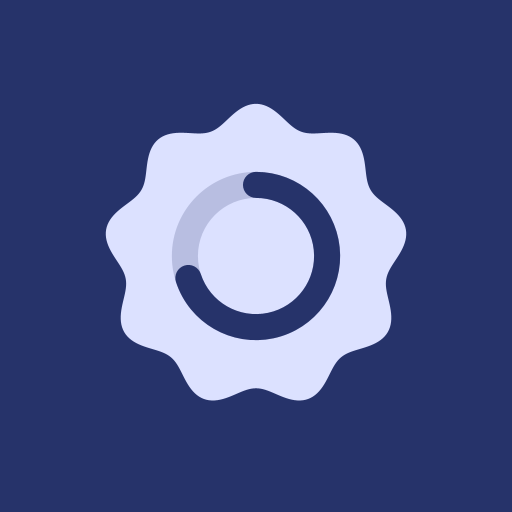
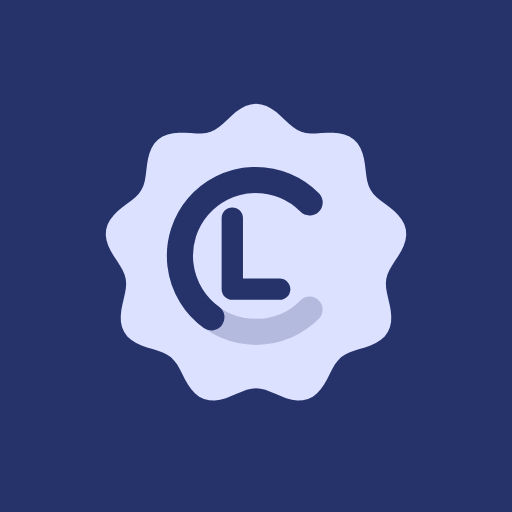
Prepare the first release
Fix edge cases found in review:
- Sign-in kept a valid cookie marked as rejected after a network error;
  it is now checked again.
- An expired session offers "Sign in again" in the app, and a widget
  asking to sign in opens the app instead of refreshing.
- A widget with data but no limit to show no longer says "Loading"
  forever.
- App and background refresh no longer write the cache at once, and
  sign-out waits for a running refresh.
- Opening the app reschedules background refresh after a force-stop.
- Rotating the screen no longer resets the sign-in page.

Also: a new C and L logo for the app icon and README, a shorter README
with fresh screenshots, optional release signing via keystore.properties,
and a tidier .gitignore. The backlog notes stay local.

Changed region(s): [[0.3125, 0.3125, 0.6875, 0.6875]]

diff --git a/app/src/main/java/io/github/professorquantumuniverse/climit/MainActivity.kt b/app/src/main/java/io/github/professorquantumuniverse/climit/MainActivity.kt
@@ -20,6 +20,7 @@ import androidx.glance.appwidget.updateAll
 import androidx.lifecycle.compose.LifecycleResumeEffect
 import io.github.professorquantumuniverse.climit.data.ApiException
 import io.github.professorquantumuniverse.climit.data.SessionRepository
+import io.github.professorquantumuniverse.climit.ui.CandidateResult
 import io.github.professorquantumuniverse.climit.ui.ClimitTheme
 import io.github.professorquantumuniverse.climit.ui.LoginScreen
 import io.github.professorquantumuniverse.climit.ui.UsageScreen
@@ -78,17 +79,21 @@ private fun App(repository: SessionRepository) {
             onCandidate = { sessionKey ->
                 try {
                     repository.completeSignIn(sessionKey)
-                    true
-                } catch (_: ApiException) {
-                    // Not accepted (yet), or offline: keep the sign-in page open.
-                    false
+                    CandidateResult.ACCEPTED
+                } catch (e: ApiException) {
+                    // Keep the sign-in page open either way; only a refused key is given up on.
+                    when (e) {
+                        is ApiException.Network, is ApiException.RateLimited, is ApiException.Server -> CandidateResult.RETRY
+                        else -> CandidateResult.REJECTED
+                    }
                 }
             },
             onSignedIn = {
                 RefreshWorker.schedule(context)
                 screen = Screen.USAGE
             },
-            onCancel = { screen = Screen.WELCOME },
+            // Signing in again after the session expired: cancelling goes back to the old numbers.
+            onCancel = { screen = if (repository.isSignedIn()) Screen.USAGE else Screen.WELCOME },
         )
 
         Screen.USAGE -> {
@@ -100,14 +105,20 @@ private fun App(repository: SessionRepository) {
             // Widgets come and go on the home screen and change in their settings, so re-read on return.
             var widgets by remember { mutableStateOf(emptyList<PlacedWidget>()) }
             LifecycleResumeEffect(Unit) {
-                val job = scope.launch { widgets = placedWidgets(context) }
+                val job = scope.launch {
+                    widgets = placedWidgets(context)
+                    // A force-stop cancels scheduled work; opening the app brings it back.
+                    if (widgets.isNotEmpty()) RefreshWorker.schedule(context)
+                }
                 onPauseOrDispose { job.cancel() }
             }
+            val expired = error is ApiException.SignedOut || state?.sessionExpired == true
             UsageScreen(
                 snapshot = state?.snapshot,
                 fetchedAt = state?.fetchedAt,
                 loading = loading,
-                error = error?.let { errorText(it) },
+                error = if (expired) stringResource(R.string.error_signed_out) else error?.let { errorText(it) },
+                onSignInAgain = if (expired) ({ screen = Screen.LOGIN }) else null,
                 onRefresh = { scope.launch { refresh() } },
                 widgets = widgets,
                 onAddWidget = { compact ->

diff --git a/app/src/main/java/io/github/professorquantumuniverse/climit/ui/LoginScreen.kt b/app/src/main/java/io/github/professorquantumuniverse/climit/ui/LoginScreen.kt
@@ -41,16 +41,27 @@ private const val LOGIN_URL = "https://claude.ai/login"
 private const val COOKIE_URL = "https://claude.ai"
 private const val ALLOWED_HOST = "claude.ai"
 
+/** What checking a session cookie from the sign-in page came to. */
+enum class CandidateResult {
+    ACCEPTED,
+
+    /** The server does not take this cookie; wait for a different one. */
+    REJECTED,
+
+    /** It could not be checked (no connection, rate limit); try the same cookie again. */
+    RETRY,
+}
+
 /**
  * Shows the claude.ai sign-in page in a locked-down WebView and waits for the session cookie.
  *
- * [onCandidate] gets every new `sessionKey` value and returns whether the server accepted it.
+ * [onCandidate] gets every new `sessionKey` value and says what the server made of it.
  * Once one is accepted the WebView's cookies and storage are wiped, so the app's encrypted
  * copy is the only one left on the device.
  */
 @Composable
 fun LoginScreen(
-    onCandidate: suspend (sessionKey: String) -> Boolean,
+    onCandidate: suspend (sessionKey: String) -> CandidateResult,
     onSignedIn: () -> Unit,
     onCancel: () -> Unit,
 ) {
@@ -77,13 +88,17 @@ fun LoginScreen(
             val candidate = readSessionKey() ?: continue
             if (candidate == rejected) continue
             checking = true
-            val accepted = onCandidate(candidate)
+            val result = onCandidate(candidate)
             checking = false
-            if (accepted) {
-                onSignedIn()
-                return@LaunchedEffect
+            when (result) {
+                CandidateResult.ACCEPTED -> {
+                    onSignedIn()
+                    return@LaunchedEffect
+                }
+                CandidateResult.REJECTED -> rejected = candidate
+                // Offline or a hiccup: the same key may well work in a moment, so ask again.
+                CandidateResult.RETRY -> delay(3_000)
             }
-            rejected = candidate
         }
     }
 

diff --git a/app/src/main/java/io/github/professorquantumuniverse/climit/data/SessionRepository.kt b/app/src/main/java/io/github/professorquantumuniverse/climit/data/SessionRepository.kt
@@ -6,6 +6,8 @@ import androidx.core.content.edit
 import kotlinx.coroutines.Dispatchers
 import kotlinx.coroutines.flow.MutableStateFlow
 import kotlinx.coroutines.flow.StateFlow
+import kotlinx.coroutines.sync.Mutex
+import kotlinx.coroutines.sync.withLock
 import kotlinx.coroutines.withContext
 import java.io.File
 import java.io.IOException
@@ -80,8 +82,13 @@ class SessionRepository(
         load()
     }
 
-    /** Fetches fresh usage, caches it and publishes the new state. */
-    suspend fun refresh(): UsageState {
+    /**
+     * Fetches fresh usage, caches it and publishes the new state. The app and the background
+     * worker may both call this at once; the lock keeps them from writing the cache together.
+     */
+    suspend fun refresh(): UsageState = lock.withLock { fetch() }
+
+    private suspend fun fetch(): UsageState {
         if (DemoData.usageJson(appContext) != null) return load()
         val organization = prefs.getString(KEY_ORG, null) ?: throw ApiException.SignedOut()
         val sessionKey = withContext(Dispatchers.IO) { vault.load() } ?: throw ApiException.SignedOut()
@@ -111,7 +118,8 @@ class SessionRepository(
     }
 
     /** Ends the session on the server if possible, then always wipes everything locally. */
-    suspend fun signOut() {
+    suspend fun signOut() = lock.withLock {
+        // Under the lock, so a refresh still in flight cannot write the cache back afterwards.
         val sessionKey = withContext(Dispatchers.IO) { vault.load() }
         if (sessionKey != null) {
             try {
@@ -133,6 +141,7 @@ class SessionRepository(
         private const val KEY_EXPIRED = "session_expired"
 
         private val mutableState = MutableStateFlow<UsageState?>(null)
+        private val lock = Mutex()
 
         /** Latest state in this process; null until [load] has run once. */
         val state: StateFlow<UsageState?> = mutableState

diff --git a/app/src/main/java/io/github/professorquantumuniverse/climit/ui/HomeScreen.kt b/app/src/main/java/io/github/professorquantumuniverse/climit/ui/HomeScreen.kt
@@ -117,6 +117,8 @@ fun UsageScreen(
     fetchedAt: Instant?,
     loading: Boolean,
     error: String?,
+    /** Set when the session has expired: the error card then offers to sign in again. */
+    onSignInAgain: (() -> Unit)?,
     onRefresh: () -> Unit,
     widgets: List<PlacedWidget>,
     onAddWidget: (compact: Boolean) -> Unit,
@@ -160,7 +162,7 @@ fun UsageScreen(
                 ),
                 verticalArrangement = Arrangement.spacedBy(12.dp),
             ) {
-                if (error != null) item { ErrorCard(error) }
+                if (error != null) item { ErrorCard(error, onSignInAgain) }
 
                 if (snapshot == null) {
                     if (loading) {
@@ -206,9 +208,16 @@ fun UsageScreen(
 }
 
 @Composable
-private fun ErrorCard(error: String) {
+private fun ErrorCard(error: String, onSignInAgain: (() -> Unit)?) {
     Surface(color = MaterialTheme.colorScheme.errorContainer, shape = RoundedCornerShape(24.dp), modifier = Modifier.fillMaxWidth()) {
-        Text(error, color = MaterialTheme.colorScheme.onErrorContainer, style = MaterialTheme.typography.bodyLarge, modifier = Modifier.padding(20.dp))
+        Column(Modifier.padding(20.dp), verticalArrangement = Arrangement.spacedBy(16.dp)) {
+            Text(error, color = MaterialTheme.colorScheme.onErrorContainer, style = MaterialTheme.typography.bodyLarge)
+            if (onSignInAgain != null) {
+                Button(onClick = onSignInAgain, modifier = Modifier.heightIn(min = 48.dp)) {
+                    Text(stringResource(R.string.action_sign_in_again))
+                }
+            }
+        }
     }
 }
 

diff --git a/app/src/main/java/io/github/professorquantumuniverse/climit/widget/UsageWidget.kt b/app/src/main/java/io/github/professorquantumuniverse/climit/widget/UsageWidget.kt
@@ -197,7 +197,10 @@ private fun Content(state: UsageState, config: WidgetConfig, appWidgetId: Int) {
     if (hasCard && !bitmapCard && !blurCard) {
         root = root.background(ColorProvider(Color(c.tones.container))).cornerRadius(config.cornerDp.dp)
     }
-    tapAction(context, config, appWidgetId)?.let { root = root.clickable(it) }
+    // A widget that asks to sign in must lead there, whatever its tap action is.
+    val needsSignIn = !state.signedIn || state.sessionExpired
+    val action = if (needsSignIn) actionStartActivity<MainActivity>() else tapAction(context, config, appWidgetId)
+    action?.let { root = root.clickable(it) }
 
     val items = state.snapshot?.let { widgetItems(context, config, c.tones, it) }.orEmpty()
     root = root.semantics {
@@ -283,7 +286,12 @@ private fun CardContent(
         Box(modifier = GlanceModifier.defaultWeight().fillMaxWidth(), contentAlignment = Alignment.Center) {
             when {
                 !state.signedIn || state.sessionExpired -> Message(context.getString(R.string.widget_sign_in), c.content)
-                items.isEmpty() -> Message(context.getString(R.string.widget_loading), c.muted)
+                // With data but nothing to show (say, only model limits chosen and the plan has none),
+                // "Loading" would never go away.
+                items.isEmpty() -> Message(
+                    context.getString(if (state.snapshot == null) R.string.widget_loading else R.string.widget_no_limits),
+                    c.muted,
+                )
                 else -> Body(c, items, area)
             }
         }

diff --git a/app/src/main/java/io/github/professorquantumuniverse/climit/data/ClaudeApi.kt b/app/src/main/java/io/github/professorquantumuniverse/climit/data/ClaudeApi.kt
@@ -64,7 +64,8 @@ class ClaudeApi(
 
     /** Raw JSON of the usage endpoint; parse it with [UsageParser]. */
     suspend fun usageBody(sessionKey: String, organizationUuid: String): String {
-        require(UUID_PATTERN.matches(organizationUuid)) { "Not an organization UUID" }
+        // A damaged stored id cannot be fixed by retrying; a fresh sign-in stores a new one.
+        if (!UUID_PATTERN.matches(organizationUuid)) throw ApiException.SignedOut()
         return get("/api/organizations/$organizationUuid/usage", sessionKey)
     }
 

diff --git a/README.md b/README.md
@@ -1,59 +1,76 @@
-# CLimit
-
-Material 3 Expressive home screen widgets for your Claude usage: the 5-hour and weekly limits, when they reset, and the per-model weekly limit — in twelve styles, at any size, tuned to the last detail.
-
-<p>
-  <img src="fastlane/metadata/android/en-US/images/phoneScreenshots/1_widgets.png" width="200" alt="Widgets on the home screen">
-  <img src="fastlane/metadata/android/en-US/images/phoneScreenshots/2_app.png" width="200" alt="The app">
-  <img src="fastlane/metadata/android/en-US/images/phoneScreenshots/3_customize.png" width="200" alt="Customizing a widget">
-  <img src="fastlane/metadata/android/en-US/images/phoneScreenshots/4_card.png" width="200" alt="Card settings">
+<p align="center">
+  <picture>
+    <source media="(prefers-color-scheme: dark)" srcset="docs/images/logo-dark.svg">
+    <img src="docs/images/logo-light.svg" width="128" height="128" alt="CLimit logo">
+  </picture>
 </p>
 
-> CLimit is not made by or affiliated with Anthropic. Claude is a trademark of Anthropic.
-> The app reads the same usage data the claude.ai website shows; that interface is undocumented and may change at any time.
+<h1 align="center">CLimit</h1>
+
+<p align="center">
+  Your Claude usage limits on the Android home screen.<br>
+  Material 3 Expressive widgets for the 5-hour, weekly and per-model limits.
+</p>
+
+<p align="center">
+  <a href="https://github.com/ProfessorQuantumUniverse/CLimit/releases/latest"><b>Download</b></a>
+  &nbsp;&middot;&nbsp;
+  <a href="#privacy">Privacy</a>
+  &nbsp;&middot;&nbsp;
+  <a href="#building">Building</a>
+</p>
+
+<p align="center">
+  <img src="fastlane/metadata/android/en-US/images/phoneScreenshots/1_widgets.png" width="24%" alt="Widgets on the home screen">
+  <img src="fastlane/metadata/android/en-US/images/phoneScreenshots/2_app.png" width="24%" alt="The app">
+  <img src="fastlane/metadata/android/en-US/images/phoneScreenshots/3_customize.png" width="24%" alt="Choosing a widget style">
+  <img src="fastlane/metadata/android/en-US/images/phoneScreenshots/4_card.png" width="24%" alt="Card settings">
+</p>
 
 ## Features
 
-- **Twelve styles** — rings, wavy rings, nested rings, gauge, bars, wavy bars, segments, dots, filling Material shapes, fill tiles, numbers, combo.
-- **Any size** — from one cell to tablet width. Small widgets switch to a single-limit layout on their own.
-- **Widget shapes** — a rounded rectangle or a Material shape (cookie, clover, sunny, puffy, pill, arch, slanted, ghostish …) stretched to the widget.
-- **Colour** — wallpaper (Material You), eight seed palettes or any hue; light, dark or system; per-limit, single or level-based gauge colours with adjustable thresholds.
-- **Card** — seven colour roles, opacity, corner radius, outline, padding, spacing.
-- **Type** — numbers in Roboto Flex with adjustable weight and width, or the system font; label and reset-line sizes; clock time or countdown; percent sign; used or remaining.
-- **Time progress** — an optional thin second gauge for how much of the 5-hour or weekly window has passed.
-- **Behaviour** — tap to refresh, open CLimit, open Claude, open the widget's settings, or nothing; show the last update; mark data older than an hour.
-- **Presets** — twelve built-in looks, your own saved looks, copy settings from another widget, export/import as text.
-- **Live preview** — the real widget, rendered while you drag a slider, on a sample background or a photo of your choice.
-- **Background blur on Samsung** — One UI Home 7+ blurs the wallpaper behind a translucent card. On other launchers the card just stays translucent (a hint in the settings says so).
-- English and German, per-app language, themed icon, predictive back, tablet layout.
+- **Twelve styles**: rings, wavy rings, nested rings, gauge, bars, wavy bars, segments, dots, filling Material shapes, fill tiles, numbers and a combined view.
+- **Any size**, from a single cell to tablet width. Small widgets switch to a one-limit layout.
+- **Shapes and colour**: a rounded card or a Material shape (cookie, clover, sunny, pill ...), wallpaper colours or your own hue, light or dark, colours that change with the level.
+- **Details you can tune**: type weight and width, labels, reset time as a clock or countdown, used or remaining, time progress of the window, padding, outline, opacity.
+- **Presets**, saved looks, copying settings between widgets, export and import as text.
+- **Live preview** while you drag a slider, on a sample background or a photo of your own.
+- **Background blur** on Samsung One UI Home 7 and later.
+- English and German.
 
-## Privacy and security
+Requires Android 12 or newer.
 
-- Sign-in happens on claude.ai (email + code) in a locked-down WebView: claude.ai only, no JavaScript bridge, screenshots blocked, all WebView data wiped afterwards.
-- The session cookie is encrypted with AES-256-GCM; the key lives in the Android Keystore (StrongBox where available) and cannot be exported.
-- Backup and device transfer are disabled. No analytics, no trackers, no Google Play Services. The only permission is `INTERNET`.
-- Network: HTTPS only, system CAs only, redirects not followed, so the cookie can only ever go to claude.ai.
+## Install
 
-The cookie is not bound to biometrics because widgets refresh in the background. On a rooted or otherwise compromised device it cannot be protected — true for any app of this kind.
+Grab the APK from the [latest release](https://github.com/ProfessorQuantumUniverse/CLimit/releases/latest), sign in once with your claude.ai email and the code you receive, then add a widget from the app or your launcher's widget picker. Widgets refresh every 15 minutes, or when tapped.
+
+Google sign-in is not supported; use the email code.
+
+## Privacy
+
+- Sign-in happens on claude.ai in a locked-down WebView. Afterwards all WebView data is wiped.
+- The session cookie is encrypted with AES-256-GCM. The key lives in the Android Keystore (StrongBox where available) and cannot be exported.
+- The cookie is only ever sent to claude.ai: HTTPS only, system certificates only, redirects are not followed.
+- No analytics, no trackers, no Google Play Services. The only permission is `INTERNET`. Backups and device transfer are disabled.
 
 ## Building
 
-Requirements: JDK 17, Android SDK with platform 37.
+JDK 17 and the Android SDK (platform 37) are needed.
 
 ```bash
 ./gradlew assembleRelease
 ```
 
-The release APK is unsigned (F-Droid signs its own builds). Tests: `./gradlew testDebugUnitTest`.
+The release APK is unsigned unless a `keystore.properties` exists (see [keystore.properties.example](keystore.properties.example)). Tests run with `./gradlew testDebugUnitTest`.
 
-Debug builds have a demo mode for screenshots and testing without an account: put a usage response (see `app/src/test/resources/usage_pro.json`) at `files/demo_usage.json` in the app's data directory.
+Debug builds have a demo mode for screenshots: put a usage response like [usage_pro.json](app/src/test/resources/usage_pro.json) at `files/demo_usage.json` in the app's data directory.
 
-## F-Droid
+## Notes
 
-Store texts and screenshots are in `fastlane/metadata/android`. Expected anti-feature: **NonFreeNet** (depends on claude.ai).
+CLimit is not made by or affiliated with Anthropic. Claude is a trademark of Anthropic. The app reads the same usage data the claude.ai website shows; that interface is undocumented and may change at any time.
 
 ## Licence
 
 GPL-3.0-or-later, see [LICENSE](LICENSE).
-Roboto Flex is © The Roboto Flex Project Authors, under the SIL Open Font License 1.1 ([LICENSES/OFL-1.1-RobotoFlex.txt](LICENSES/OFL-1.1-RobotoFlex.txt)).
+Roboto Flex is &copy; The Roboto Flex Project Authors, under the [SIL Open Font License 1.1](LICENSES/OFL-1.1-RobotoFlex.txt).
 The Samsung blur attributes follow [blur-widget-demo](https://github.com/thatjoshguy67/blur-widget-demo) (MIT).
